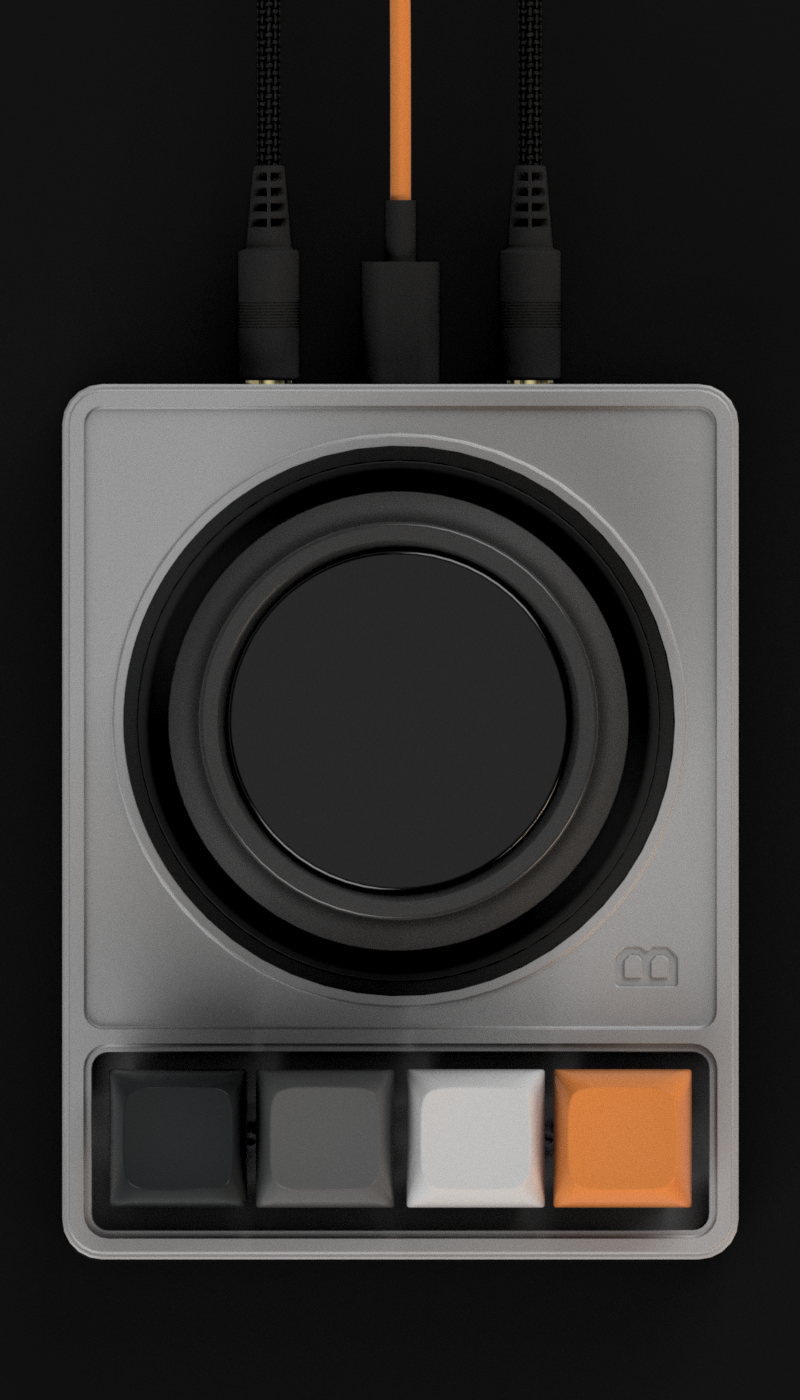
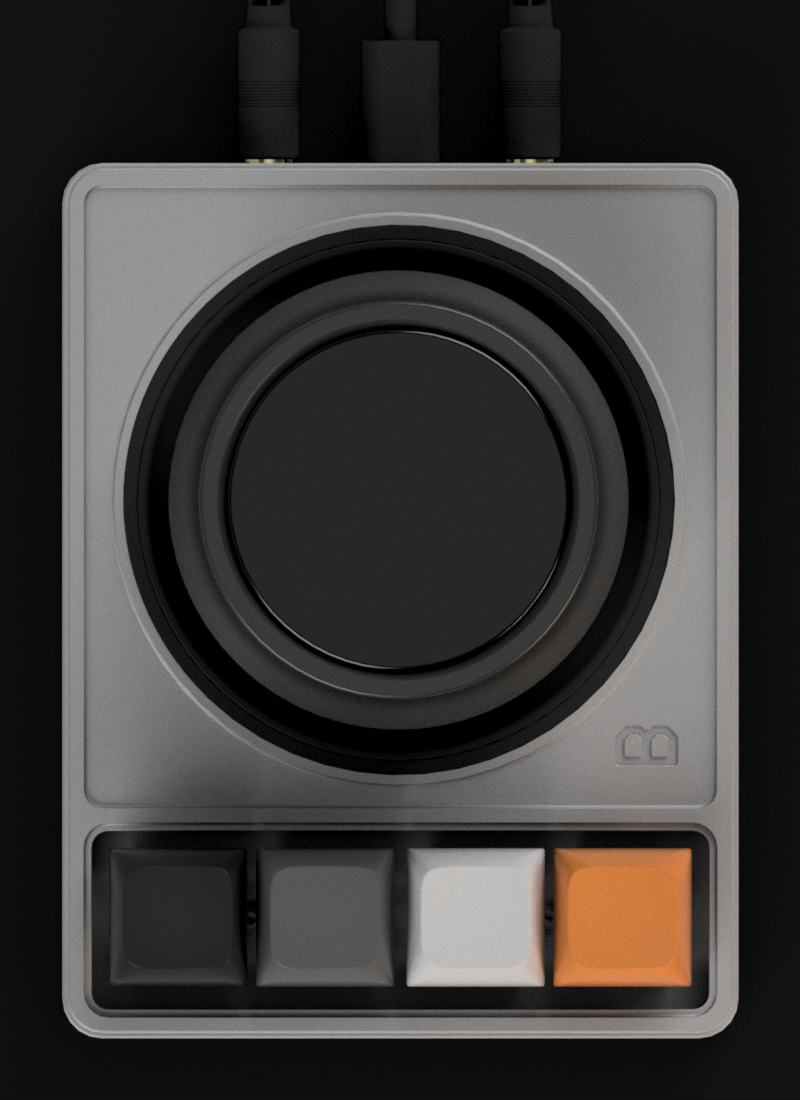
ADD: Nano render

diff --git a/src/components/device/DevicePreview.vue b/src/components/device/DevicePreview.vue
@@ -1,9 +1,17 @@
 <template>
-  <div style="background-image: url(../../assets/images/renderNano.png)">
-    <div class="flex px-4 pt-5 pb-3 items-baseline font-heading text-lg">
-      {{ $t('preview.title') }}
+  <div class="aspect-[800/1100]">
+    <div
+      class="bg-contain bg-top bg-no-repeat h-full w-full relative"
+      :style="{backgroundImage: `linear-gradient(to bottom, black, rgba(0,0,0,0.2) 10%), url(${RenderNano})`}">
+      <div class="flex px-4 pt-5 pb-3 items-baseline font-heading text-lg">
+        {{ $t('preview.title') }}
+      </div>
+      <div
+        class="rounded-full aspect-square absolute h-[30%] top-[30.5%]  left-0 right-0 mx-auto overflow-hidden"
+        style="background: linear-gradient(45deg, black 30%, #252525 50%, #232323 60%, black)" />
     </div>
   </div>
 </template>
 <script setup>
+import RenderNano from '@/assets/images/renderNano.png'
 </script>
